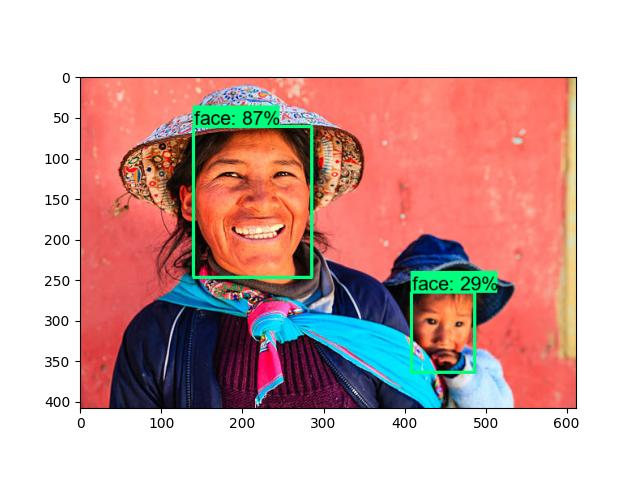
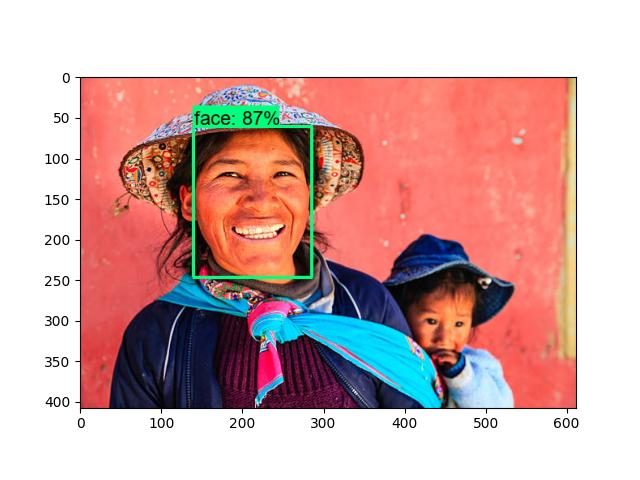
refactor: update codes for saved model inference to take command line params

Changed region(s): [[0.625, 0.5625, 0.7812, 0.7812]]

diff --git a/detect_from_image.py b/detect_from_image.py
@@ -1,87 +1,93 @@
+'''
+This script detects all images in a specified folder and outputs them in another folder
+Example:
+python detect_from_image.py  --checkpoint Tensorflow\workspace\models\my_ssd_mobnet\ckpt-51 --label_map Tensorflow\workspace\annotations\label_map.pbtxt --threshold .5 --images_folder Tensorflow\workspace\images\detect_image --output_path Tensorflow\workspace\images\detect_res
+'''
 import os
+import argparse
 import tensorflow as tf
 from object_detection.utils import label_map_util
 from object_detection.utils import visualization_utils as viz_utils
-from object_detection.builders import model_builder
 import cv2 
 import numpy as np
 from matplotlib import pyplot as plt
 import common_functions as cf
 import glob
 
-#cluster model folder
-CUSTOM_MODEL_NAME = 'my_ssd_mobnet'
-LABEL_MAP_NAME = 'label_map.pbtxt'
+def main(args):
+    CHECKPOINT = args['checkpoint']
+    LABEL_MAP = args['label_map']
+    TEST_IMAGE_PATH = args['images_folder']
+    DETECT_RES_PATH = args['output_path']
+    PARAM_THRESHOLD = args['threshold']
 
-paths = {
-    'WORKSPACE_PATH': os.path.join('Tensorflow', 'workspace'), # high level workspace
-    'SCRIPTS_PATH': os.path.join('Tensorflow','scripts'),
-    'APIMODEL_PATH': os.path.join('Tensorflow','models'),
-    'ANNOTATION_PATH': os.path.join('Tensorflow', 'workspace','annotations'), # where TF record file will be stored
-    'IMAGE_PATH': os.path.join('Tensorflow', 'workspace','images','detect_image'),
-    'MODEL_PATH': os.path.join('Tensorflow', 'workspace','models'), # folder for the selected models tested
-    'PRETRAINED_MODEL_PATH': os.path.join('Tensorflow', 'workspace','pre-trained-models'),
-    'CHECKPOINT_PATH': os.path.join('Tensorflow', 'workspace','models',CUSTOM_MODEL_NAME),
-    'DETECT_RES_PATH': os.path.join('Tensorflow', 'workspace','images','detect_res')
- }
+    MIN_THRESHOLD = float(.5)
+    if PARAM_THRESHOLD is not None:
+        MIN_THRESHOLD = float(PARAM_THRESHOLD)
 
-files = {
-    'PIPELINE_CONFIG':os.path.join('Tensorflow', 'workspace','models', CUSTOM_MODEL_NAME, 'pipeline.config'),
-    'DETECTED_IMAGE': os.path.join(paths['DETECT_RES_PATH'])
-}
+    #cluster model folder
+    CUSTOM_MODEL_NAME = 'my_ssd_mobnet'
 
-# Restore checkpoint
-ckpt = tf.compat.v2.train.Checkpoint(model=cf.detection_model)
-# Selecting our most train model
-ckpt.restore(os.path.join(paths['CHECKPOINT_PATH'], 'ckpt-51')).expect_partial()
+    # Restore checkpoint
+    ckpt = tf.compat.v2.train.Checkpoint(model=cf.detection_model)
+    # Selecting our most train model
+    ckpt.restore(CHECKPOINT).expect_partial()
 
-# select our face label
-category_index = label_map_util.create_category_index_from_labelmap(cf.files['LABELMAP'])
-#print(category_index)
+    # select our face label
+    category_index = label_map_util.create_category_index_from_labelmap(LABEL_MAP)
 
-# Reset image path
-SINGLE_IMAGE_PATH = os.path.join(paths['IMAGE_PATH'], 'detect_image', 'istockphoto_174878359.jpg')
-#print(IMAGE_PATH)
+    # Define path to images and grab all image filenames
+    images = glob.glob(TEST_IMAGE_PATH + '/*')
 
-# Define path to images and grab all image filenames
-images = glob.glob(paths['IMAGE_PATH'] + '/*')
+    # Loop over every image and perform detection
+    for image_path in images: 
+        # Loading image into python
+        img = cv2.imread(image_path)
+        #print('img: ', img)
+        image_np = np.array(img)
 
-# Loop over every image and perform detection
-for image_path in images: 
-    # Loading image into python
-    img = cv2.imread(image_path)
-    #print('img: ', img)
-    image_np = np.array(img)
+        # Converting image to a tensor and the detection function 
+        input_tensor = tf.convert_to_tensor(np.expand_dims(image_np, 0), dtype=tf.float32)
+        detections = cf.detect_fn(input_tensor)
 
-    # Converting image to a tensor and the detection function 
-    input_tensor = tf.convert_to_tensor(np.expand_dims(image_np, 0), dtype=tf.float32)
-    detections = cf.detect_fn(input_tensor)
+        # All outputs are batches tensors.
+        # Convert to numpy arrays, and take index [0] to remove the batch dimension.
+        num_detections = int(detections.pop('num_detections'))
+        detections = {key: value[0, :num_detections].numpy()
+                    for key, value in detections.items()}
+        detections['num_detections'] = num_detections
 
-    # All outputs are batches tensors.
-    # Convert to numpy arrays, and take index [0] to remove the batch dimension.
-    num_detections = int(detections.pop('num_detections'))
-    detections = {key: value[0, :num_detections].numpy()
-                for key, value in detections.items()}
-    detections['num_detections'] = num_detections
+        # Detection_classes should be ints.
+        detections['detection_classes'] = detections['detection_classes'].astype(np.int64)
 
-    # Detection_classes should be ints.
-    detections['detection_classes'] = detections['detection_classes'].astype(np.int64)
+        label_id_offset = 1
+        image_np_with_detections = image_np.copy()
 
-    label_id_offset = 1
-    image_np_with_detections = image_np.copy()
+        viz_utils.visualize_boxes_and_labels_on_image_array(
+                    image_np_with_detections,
+                    detections['detection_boxes'],
+                    detections['detection_classes']+label_id_offset,
+                    detections['detection_scores'],
+                    category_index,
+                    use_normalized_coordinates=True,
+                    max_boxes_to_draw=8,
+                    min_score_thresh=MIN_THRESHOLD,
+                    agnostic_mode=False)
 
-    viz_utils.visualize_boxes_and_labels_on_image_array(
-                image_np_with_detections,
-                detections['detection_boxes'],
-                detections['detection_classes']+label_id_offset,
-                detections['detection_scores'],
-                category_index,
-                use_normalized_coordinates=True,
-                max_boxes_to_draw=8,
-                min_score_thresh=.2,
-                agnostic_mode=False)
+        plt.imshow(cv2.cvtColor(image_np_with_detections, cv2.COLOR_BGR2RGB))
+        filename=image_path.split('\\')[-1]
+        image_name = os.path.join(DETECT_RES_PATH,filename)
+        plt.savefig(image_name)
 
-    plt.imshow(cv2.cvtColor(image_np_with_detections, cv2.COLOR_BGR2RGB))
-    filename=image_path.split('\\')[-1]
-    image_name = os.path.join(paths['DETECT_RES_PATH'],filename)
-    plt.savefig(image_name)
+if __name__ == '__main__':
+            # create parser and handle arguments
+        parser = argparse.ArgumentParser()
+        parser.add_argument('--checkpoint', required=True, help='path\\to\\checkpoint\\checkpoint_file, without the file extension, eg: path\ckpt-51')
+        parser.add_argument('--label_map', required=True, help='path\\to\\label_map.pbtxt')
+        parser.add_argument('--threshold', required=False, help='detection score threshold, eg: .5')
+        parser.add_argument('--images_folder', required=True, help='path\\to\\image\\folder')
+        parser.add_argument('--output_path', required=True, help='path\\to\\inference\results\\folder')
+
+        args = vars(parser.parse_args())
+        
+        main(args)

diff --git a/common_functions.py b/common_functions.py
@@ -10,7 +10,7 @@ DETECTED_IMAGE_NAME = 'detection_test.png'
 
 paths = {
     'WORKSPACE_PATH': os.path.join('Tensorflow', 'workspace'), # high level workspace
-    'SCRIPTS_PATH': os.path.join('Tensorflow','scripts'),
+    'SCRIPTS_PATH': os.path.join('Tensorflow','GenerateTFRecord'),
     'APIMODEL_PATH': os.path.join('Tensorflow','models'),
     'ANNOTATION_PATH': os.path.join('Tensorflow', 'workspace','annotations'), # where TF record file will be stored
     'IMAGE_PATH': os.path.join('Tensorflow', 'workspace','images'),

diff --git a/README.md b/README.md
@@ -52,9 +52,9 @@ This script will make an inference on the images in the above folder and save th
 Tensorflow\workspace\images\detect_image\detect_res
 ```
 Below script will test image detection with bounding box and score for a given image. <br>
-Note that checkpoint_path should contain all the files that are set in the parameters (label_map, checkpoint), including the saved model. In our repository, this should be under: Tensorflow\workspace\models\my_ssd_mobnet
+Make sure that the workspace folder and test images exist before running the script.
 ```
-python detect_from_image.py --checkpoint_path path\to\checkpoint --checkpoint_name ckpt-51 --label_map label_map.pbtxt --threshold .5 --images_folder path\to\image\folder --output_path path\to\inference\results\folder
+python detect_from_image.py  --checkpoint Tensorflow\workspace\models\my_ssd_mobnet\ckpt-51 --label_map Tensorflow\workspace\annotations\label_map.pbtxt --threshold .5 --images_folder Tensorflow\workspace\images\detect_image --output_path Tensorflow\workspace\images\detect_res
 ```
 
 ### Test Camera Detection
@@ -85,7 +85,7 @@ Tensorflow\workspace\images\detect_image\detect_tflite_res
 ```
 Run below script to make the inference test:
 ```
-python detect_image_tflite.py --tf_model path\to\models\tflitemodelname.tflite  --tf_labels path\to\labelfile\labels.txt --threshold .5 --images_folder path\to\image\folder --output_path path\to\inference esults\folder
+python detect_image_tflite.py --tf_model Tensorflow\workspace\models\my_ssd_mobnet\tfliteexport\detect_cl.tflite  --tf_labels Tensorflow\workspace\models\my_ssd_mobnet\tfliteexport\labels.txt --threshold .5 --images_folder Tensorflow\workspace\images\detect_image --output_path Tensorflow\workspace\images\detect_tflite_res
 ```
 
 ### Resources
